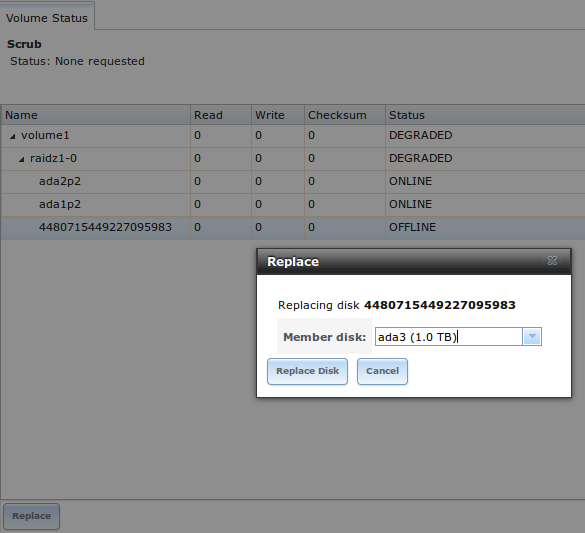
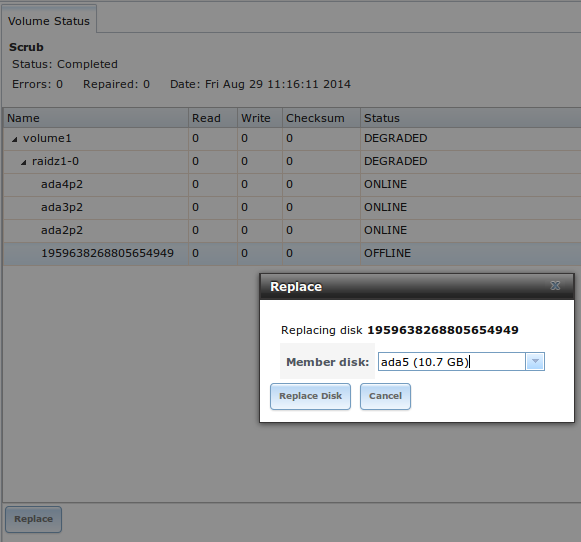
Indicate that Volume Status now shows resilvering progress. Add screenshots.
Former-commit-id: adb7268e2c74e9a21842d983542e16225b17e837

Changed region(s): [[0.4028, 0.4203, 1.0, 0.8105], [0.0, 0.03, 1.0, 1.0], [0.3098, 0.3302, 0.3408, 0.3902]]

diff --git a/docs/userguide/freenas_storage.rst b/docs/userguide/freenas_storage.rst
@@ -944,12 +944,9 @@ you have located the failed device in the GUI, perform the following steps:
 
 #.  Once the disk is showing as OFFLINE, click the disk again and then click its "Replace" button. Select the replacement disk from the drop-down menu
     and click the "Replace Disk" button. If the disk is a member of an encrypted ZFS pool, you will be prompted to input the passphrase for the pool.
-    Once you click the "Replace Disk" button, the ZFS pool will start to resilver. You can use the :command:`zpool status` command in Shell to monitor the
-    status of the resilvering.
+    Once you click the "Replace Disk" button, the ZFS pool will start to resilver and the status of the resilver will be displayed.
 
-#.  If the replaced disk continues to be listed after resilvering is complete, click its entry and use the "Detach" button to remove the disk from the list.
-
-In the example shown in Figure 8.1s, a failed disk is being replaced by disk *ada3* in the volume named :file:`volume1`.
+In the example shown in Figure 8.1s, a failed disk is being replaced by disk *ada5* in the volume named :file:`volume1`.
 
 **Figure 8.1s: Replacing a Failed Disk**
 
@@ -959,6 +956,17 @@ In the example shown in Figure 8.1s, a failed disk is being replaced by disk *ad
     :width: 4.9in
     :height: 4.5in
 
+Once the resilver is complete, "Volume Status" will show a "Completed" resilver status and indicate if there were any errors. Figure 8.1t indicates that the
+disk replacement was successful for this example.
+
+**Figure 8.1t: Disk Replacement is Complete**
+
+|replace2.png|
+
+.. |replace2.png| image:: images/replace2.png
+    :width: 4.9in
+    :height: 2.4in
+    
 .. _Replacing an Encrypted Drive:
 
 Replacing an Encrypted Drive

diff --git a/docs/userguide/freenas_intro.rst b/docs/userguide/freenas_intro.rst
@@ -231,6 +231,8 @@ The following fields have been added or deleted:
   you no longer need to upgrade a ZFS pool from the command line.
   
 * The "Volume Status" screen now shows the status of the latest ZFS scrub, the number of errors, number of repaired blocks, and the date of the last scrub.
+
+* The "Volume Status" screen now shows the resilvering status when a disk is replaced.
   
 * The "Enable High Speed Ciphers" checkbox has been replaced by the "Encryption Cipher" drop-down menu in 
   :menuselection:`Storage --> Replication Tasks -> Add Replication Tasks`. This allows you to temporarily disable encryption for the initial replication which
